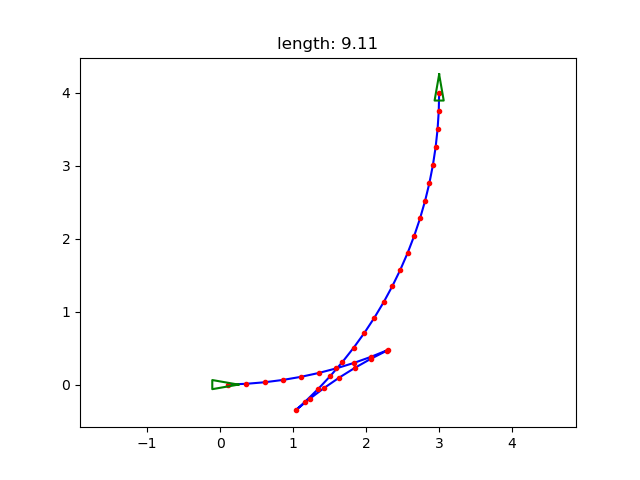
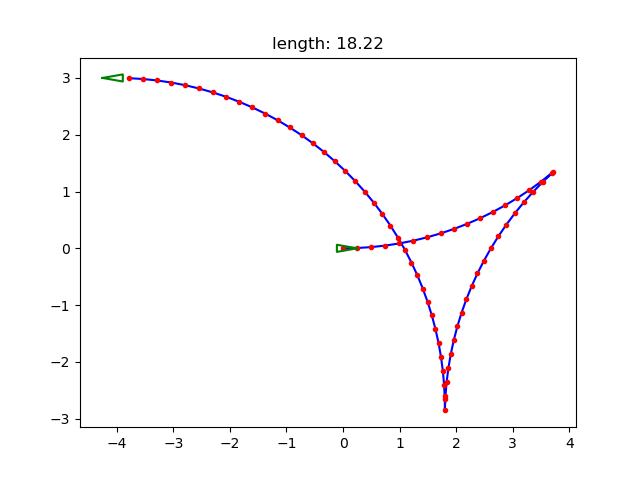
FUNZIONA

diff --git a/src/trajectory.py b/src/trajectory.py
@@ -119,27 +119,7 @@ class Trajectory_control():
         final_x = []
         final_y = []
 
-        # CONTROLLO SE IL PRIMO TRATTO PREVEDA O MENO UN INCREMENTO LUNGO X, DUNQUE AGGIORNO SLOPE_X
-        if xs[i+1] > xs[i]:
-            temp = True
-        else:
-            temp = False
-        
-        segment_x[j].append(xs[i])
-        segment_y[j].append(ys[i])
-        
-        self.slope_x.append(temp)
-
-        # CONTROLLO SE IL PRIMO TRATTO PREVEDA O MENO UN INCREMENTO LUNGO Y, DUNQUE AGGIORNO SLOPE_Y
-        if ys[i+1] > ys[i]: 
-            self.slope_y.append(True)
-        else: 
-            self.slope_y.append(False)
-
-        # CONTROLLO I TRATTI SUCCESSIVI AL PRIMO
-        print(xs)
-        print(ys)
-        
+        # CONTROLLO SE IL PRIMO TRATTO PREVEDA O MENO UN INCREMENTO LUNGO X o LUNGO Y, DUNQUE AGGIORNO SLOPE_X e SLOPE Y
         case = 0
         if xs[i+1] > xs[i] and ys[i+1] > ys[i]:
             case = 1
@@ -168,8 +148,8 @@ class Trajectory_control():
         
         previous = case
 
-        while i < len(xs)-1: #effettuo il controllo su ciascun punto
-        
+        # ESTENDO IL CONTROLLO A TUTTI I PUNTI DELLA TRAIETTORIA
+        while i < len(xs)-1: #effettuo il controllo fin quando non si esaurisce il vettore 'xs' contenente i punti lungo x 
 
             if xs[i+1] > xs[i] and ys[i+1] > ys[i]:
                 case = 1
@@ -181,16 +161,16 @@ class Trajectory_control():
                 case = 4
             
             if previous != case:
-                if case == 1:
+                if case == 1: # X > 0 , Y > 0
                     self.slope_x.append(True)
                     self.slope_y.append(True)           
-                elif case == 2:
+                elif case == 2: # X < 0 , Y > 0
                     self.slope_x.append(False)
                     self.slope_y.append(True)
-                elif case == 3:
+                elif case == 3: # X <0 , Y < 0
                     self.slope_x.append(False)
                     self.slope_y.append(False)
-                else:
+                else: # X > 0 , Y < 0
                     self.slope_x.append(True)
                     self.slope_y.append(False)
             
@@ -201,54 +181,11 @@ class Trajectory_control():
                 segment_x[j].append(xs[i+1]) # inserisco il nuovo valore all'interno dei punti appartenenti al tratto 
                 segment_y[j].append(ys[i+1])
             
-            i = i+1
+            i = i+1 # Incremento il contatore per valutare il punto successivo
             previous = case
-
-            
-
-
-            """
-            if temp: #qualora il punto precedente appartenga ad un tratto che si incrementa in senso positivo
-                if xs[i+1] > xs[i]: # qualora il tratto si stia ancora incrementando
-                    segment_x[j].append(xs[i+1]) # inserisco il nuovo valore all'interno dei punti appartenenti al tratto 
-                    segment_y[j].append(ys[i+1])
-                else: # in caso contrario considero il nuovo tratto con pendenza opposta rispetto al precedente
-                    temp = False
-                    self.slope_x.append(temp)
-                    if ys[i+1] > ys[i]: # valuto il verso del tratto anche rispetto all'asse Y
-                        self.slope_y.append(True)
-                    else: 
-                        self.slope_y.append(False)
-                    j = j+1 # incremento il numero dei tratti totali 
-                    final_x.append(xs[i]) # aggiorno il valore finale del tratto rispetto all'asse X
-                    final_y.append(ys[i]) # aggiorno il valore finale del tratto rispetto all'asse Y
-            if temp == False: #qualora il punto precedente appartenga ad un tratto che si incrementa in senso negativo
-                if xs[i+1] < xs[i]: #qualora il decremento non sia ancora terminato
-                    segment_x[j].append(xs[i+1]) # inserisco il nuovo valore all'interno dei punti appartenenti al tratto 
-                    segment_y[j].append(ys[i+1])
-                else: # in caso contrario considero il nuovo tratto con pendenza opposta rispetto al precedente
-                    temp = True
-                    self.slope_x.append(temp)
-
-                    if ys[i+1] > ys[i]:   # valuto il verso del tratto anche rispetto all'asse Y
-                        self.slope_y.append(True)
-                    else: 
-                        self.slope_y.append(False)
-                    j = j+1 # incremento il numero dei tratti totali 
-                    final_x.append(xs[i]) # aggiorno il valore finale del tratto rispetto all'asse X
-                    final_y.append(ys[i]) # aggiorno il valore finale del tratto rispetto all'asse Y        
-            i = i+1 
-            """
-            
 
         final_x.append(xs[i]) # aggiorno il valore finale del tratto rispetto all'asse X
         final_y.append(ys[i]) # aggiorno il valore finale del tratto rispetto all'asse Y
-
-        print(segment_x)
-        print(segment_y)
-
-        print(final_x)
-        print(final_y)
 
         i = 0 # ripristino un contatore generico al valore nullo
         N = j+1 # Numero totale dei tratti
@@ -305,10 +242,6 @@ class Trajectory_control():
         self.doty_d = np.asarray(self.doty_d)
         self.v_d = np.asarray(self.v_d)
         self.w_d = np.asarray(self.w_d)
-        print(initial_x)
-        print(initial_y)
-        print(final_x)
-        print(final_y)
 
 
         # Calcolo di w_d,x_d,y_d,dotx_d e doty_d per ciascuna delle circonferenze individuate

diff --git a/src/path.py b/src/path.py
@@ -53,7 +53,7 @@ def plot_table(cols):
     plt.show()
 
 if __name__ == "__main__":
-    q = [(3.0, 4.0, np.pi/2), (0.0, 0.0, 0.0)]
+    q = [(0.0, 0.0, 0.0), (-4.0, 3.0, np.pi)]
     q0 = q[0]
     q1 = q[1]
     qd = plot_path(q0,q1)
